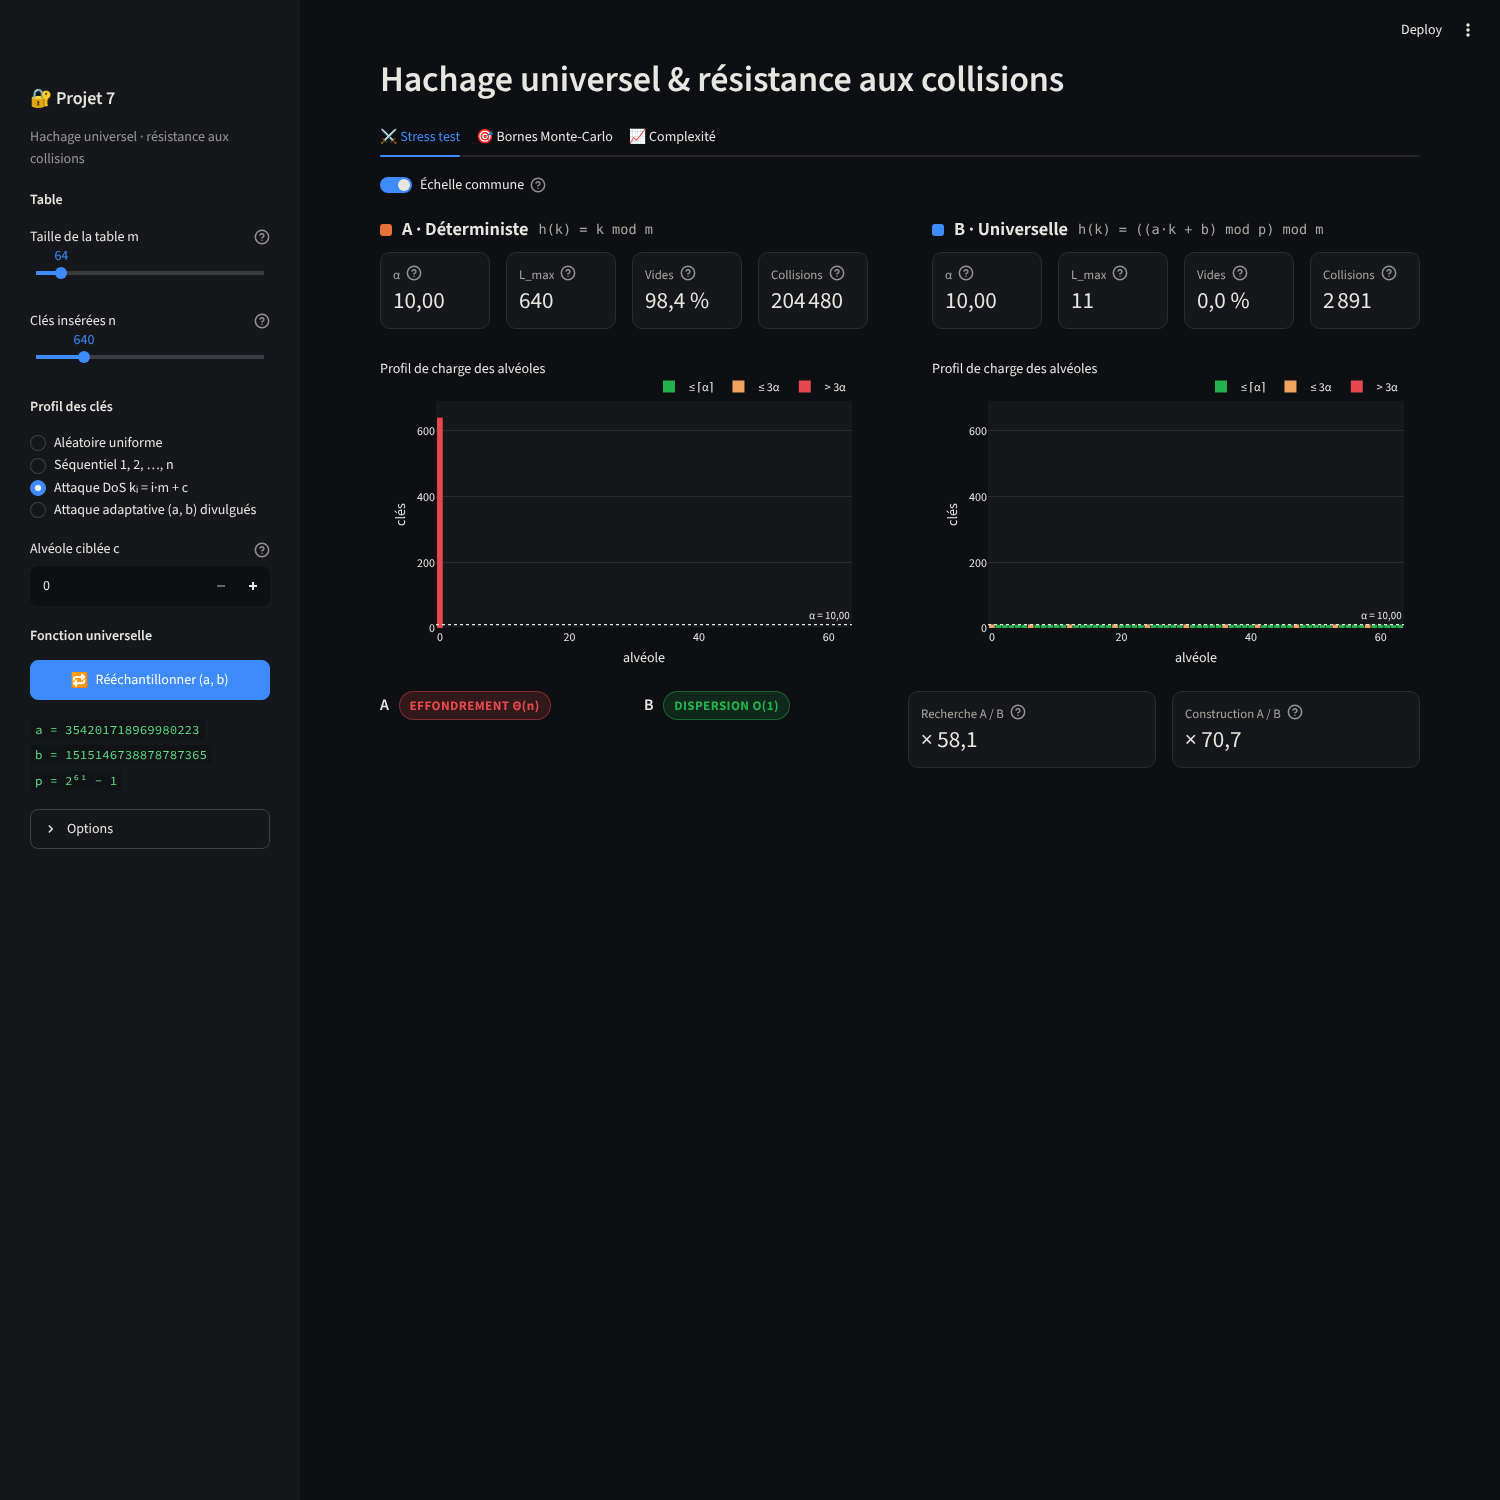
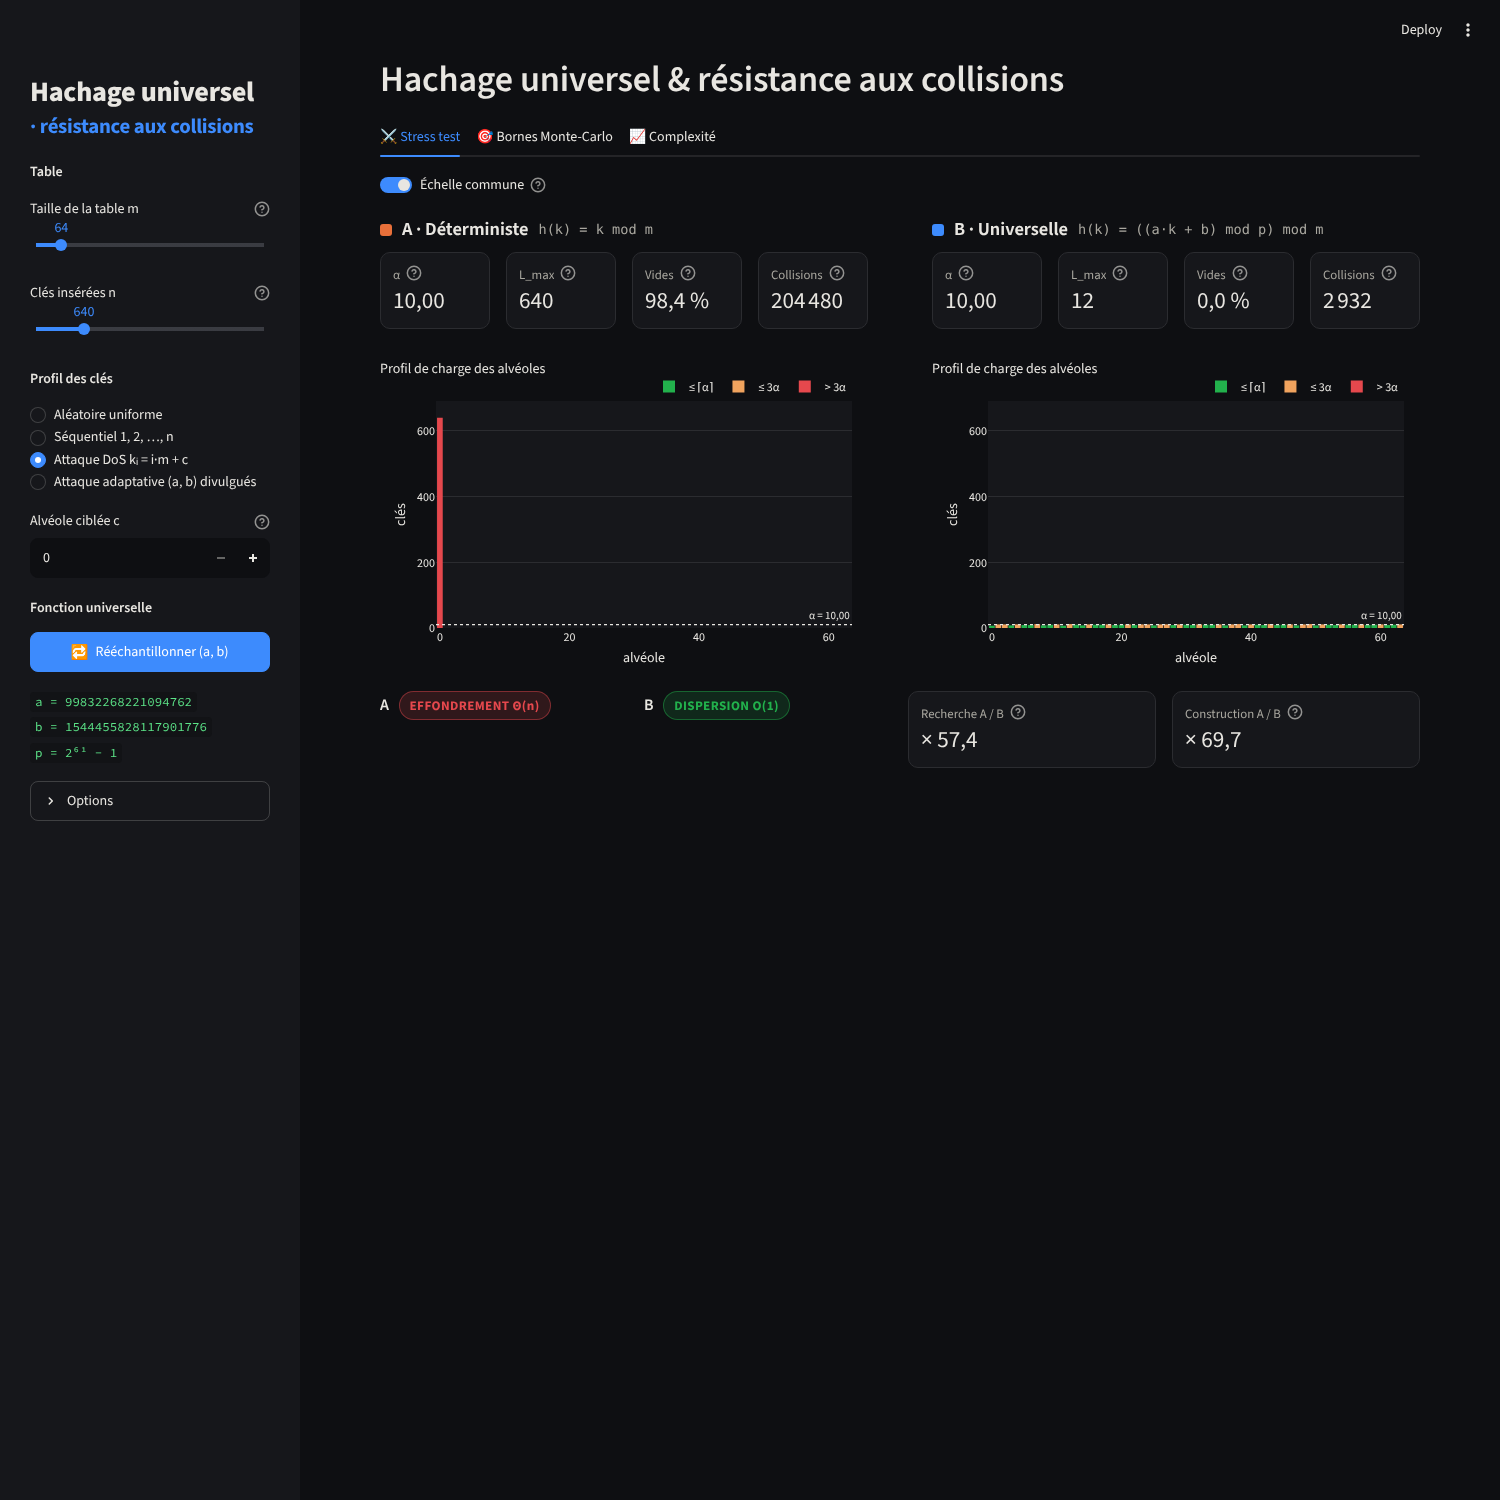
Barre latérale : titre « Hachage universel · résistance aux collisions » en grand
Claude-Session: https://claude.ai/code/session_01WeqDLdF84DPnMEDkAbkoLJ

diff --git a/app.py b/app.py
@@ -31,7 +31,7 @@ import moteur as M
 # Thème
 # ==========================================================================
 
-st.set_page_config(page_title="Hachage universel · Projet 7", page_icon="🔐",
+st.set_page_config(page_title="Hachage universel · résistance aux collisions", page_icon="🔐",
                    layout="wide", initial_sidebar_state="expanded")
 
 INK = "#e8e6e1"
@@ -72,6 +72,9 @@ st.markdown(f"""
   .lab-head {{display:flex; align-items:center; gap:10px; margin: 2px 0 8px 0;}}
   .lab-dot {{width:12px; height:12px; border-radius:3px; display:inline-block;}}
   .lab-title {{font-size:1.15rem; font-weight:650; color:{INK};}}
+  .side-title {{font-size:1.75rem; font-weight:800; line-height:1.15; color:{INK};
+      margin: 0 0 18px 0; letter-spacing:-.01em;}}
+  .side-title span {{color:{UNI}; font-size:1.3rem; font-weight:700;}}
   .lab-sub {{font-family: ui-monospace, monospace; font-size:.85rem; color:{INK_2};}}
   .badge {{display:inline-block; padding:3px 10px; border-radius:999px; font-weight:700;
       font-size:.82rem; letter-spacing:.03em;}}
@@ -183,8 +186,8 @@ if "a" not in st.session_state:
     st.session_state.history = []
 
 with st.sidebar:
-    st.markdown("### 🔐 Projet 7")
-    st.caption("Hachage universel · résistance aux collisions")
+    st.markdown("<div class='side-title'>Hachage universel<br>"
+                "<span>· résistance aux collisions</span></div>", unsafe_allow_html=True)
 
     st.markdown("##### Table")
     m = st.slider("Taille de la table  m", 8, 512, 64, step=1,
